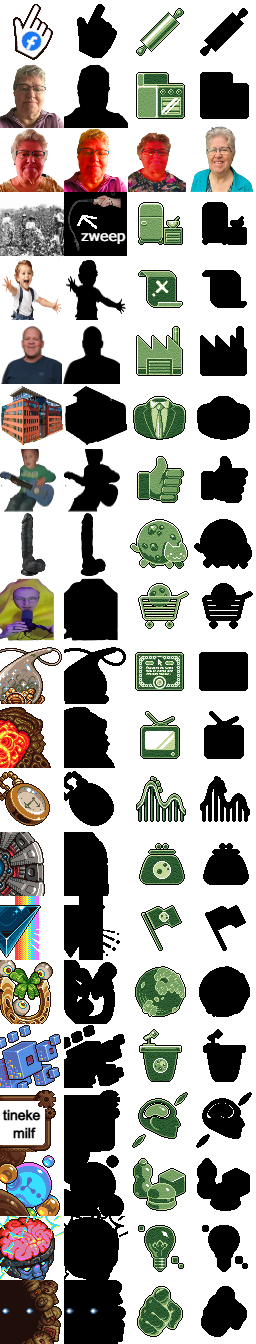
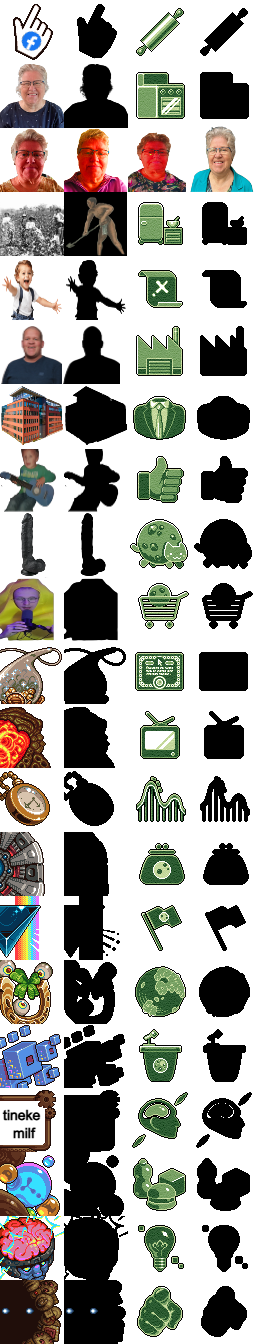
wefwef

Changed region(s): [[0.0, 0.0312, 0.3438, 0.0938], [0.25, 0.125, 0.5, 0.1875], [0.4062, 0.0312, 0.5, 0.0938]]

diff --git a/main.js b/main.js
@@ -1325,6 +1325,10 @@ Game.Launch=function()
 	'<div class="title">&bull; Ga naar <a href="https://domains.tinekesieders.nl" target="_blank">https://domains.tinekesieders.nl</a> voor meer zoals dit.</div>'+
 
     '</div><div class="subsection update">'+
+	'<div class="title">03/10/2025 - Kleine Patchnotes v8.05</div>'+
+	'<div class="listing">&bull; Tineke Sieders heeft een nieuwe plaatje maar nu bij de goeie plek.</div>'+
+
+    '</div><div class="subsection update">'+
 	'<div class="title">03/10/2025 - Kleine Update v8.00</div>'+
 	'<div class="listing">&bull; Jan Eradus staat nu wel bij het Huis in het midden.</div>'+
 	'<div class="listing">&bull; Nieuwe Plaatjes als je over de winkel aan de rechterkant. (Jan Eradus, Dildo & Banaan Joran)</div>'+

diff --git a/index.html b/index.html
@@ -42,7 +42,7 @@
 
 
 <script>
-var VERSION=8.00;
+var VERSION=8.05;
 var BETA=0;
 var App=typeof App==='undefined'?0:App;
 </script>
